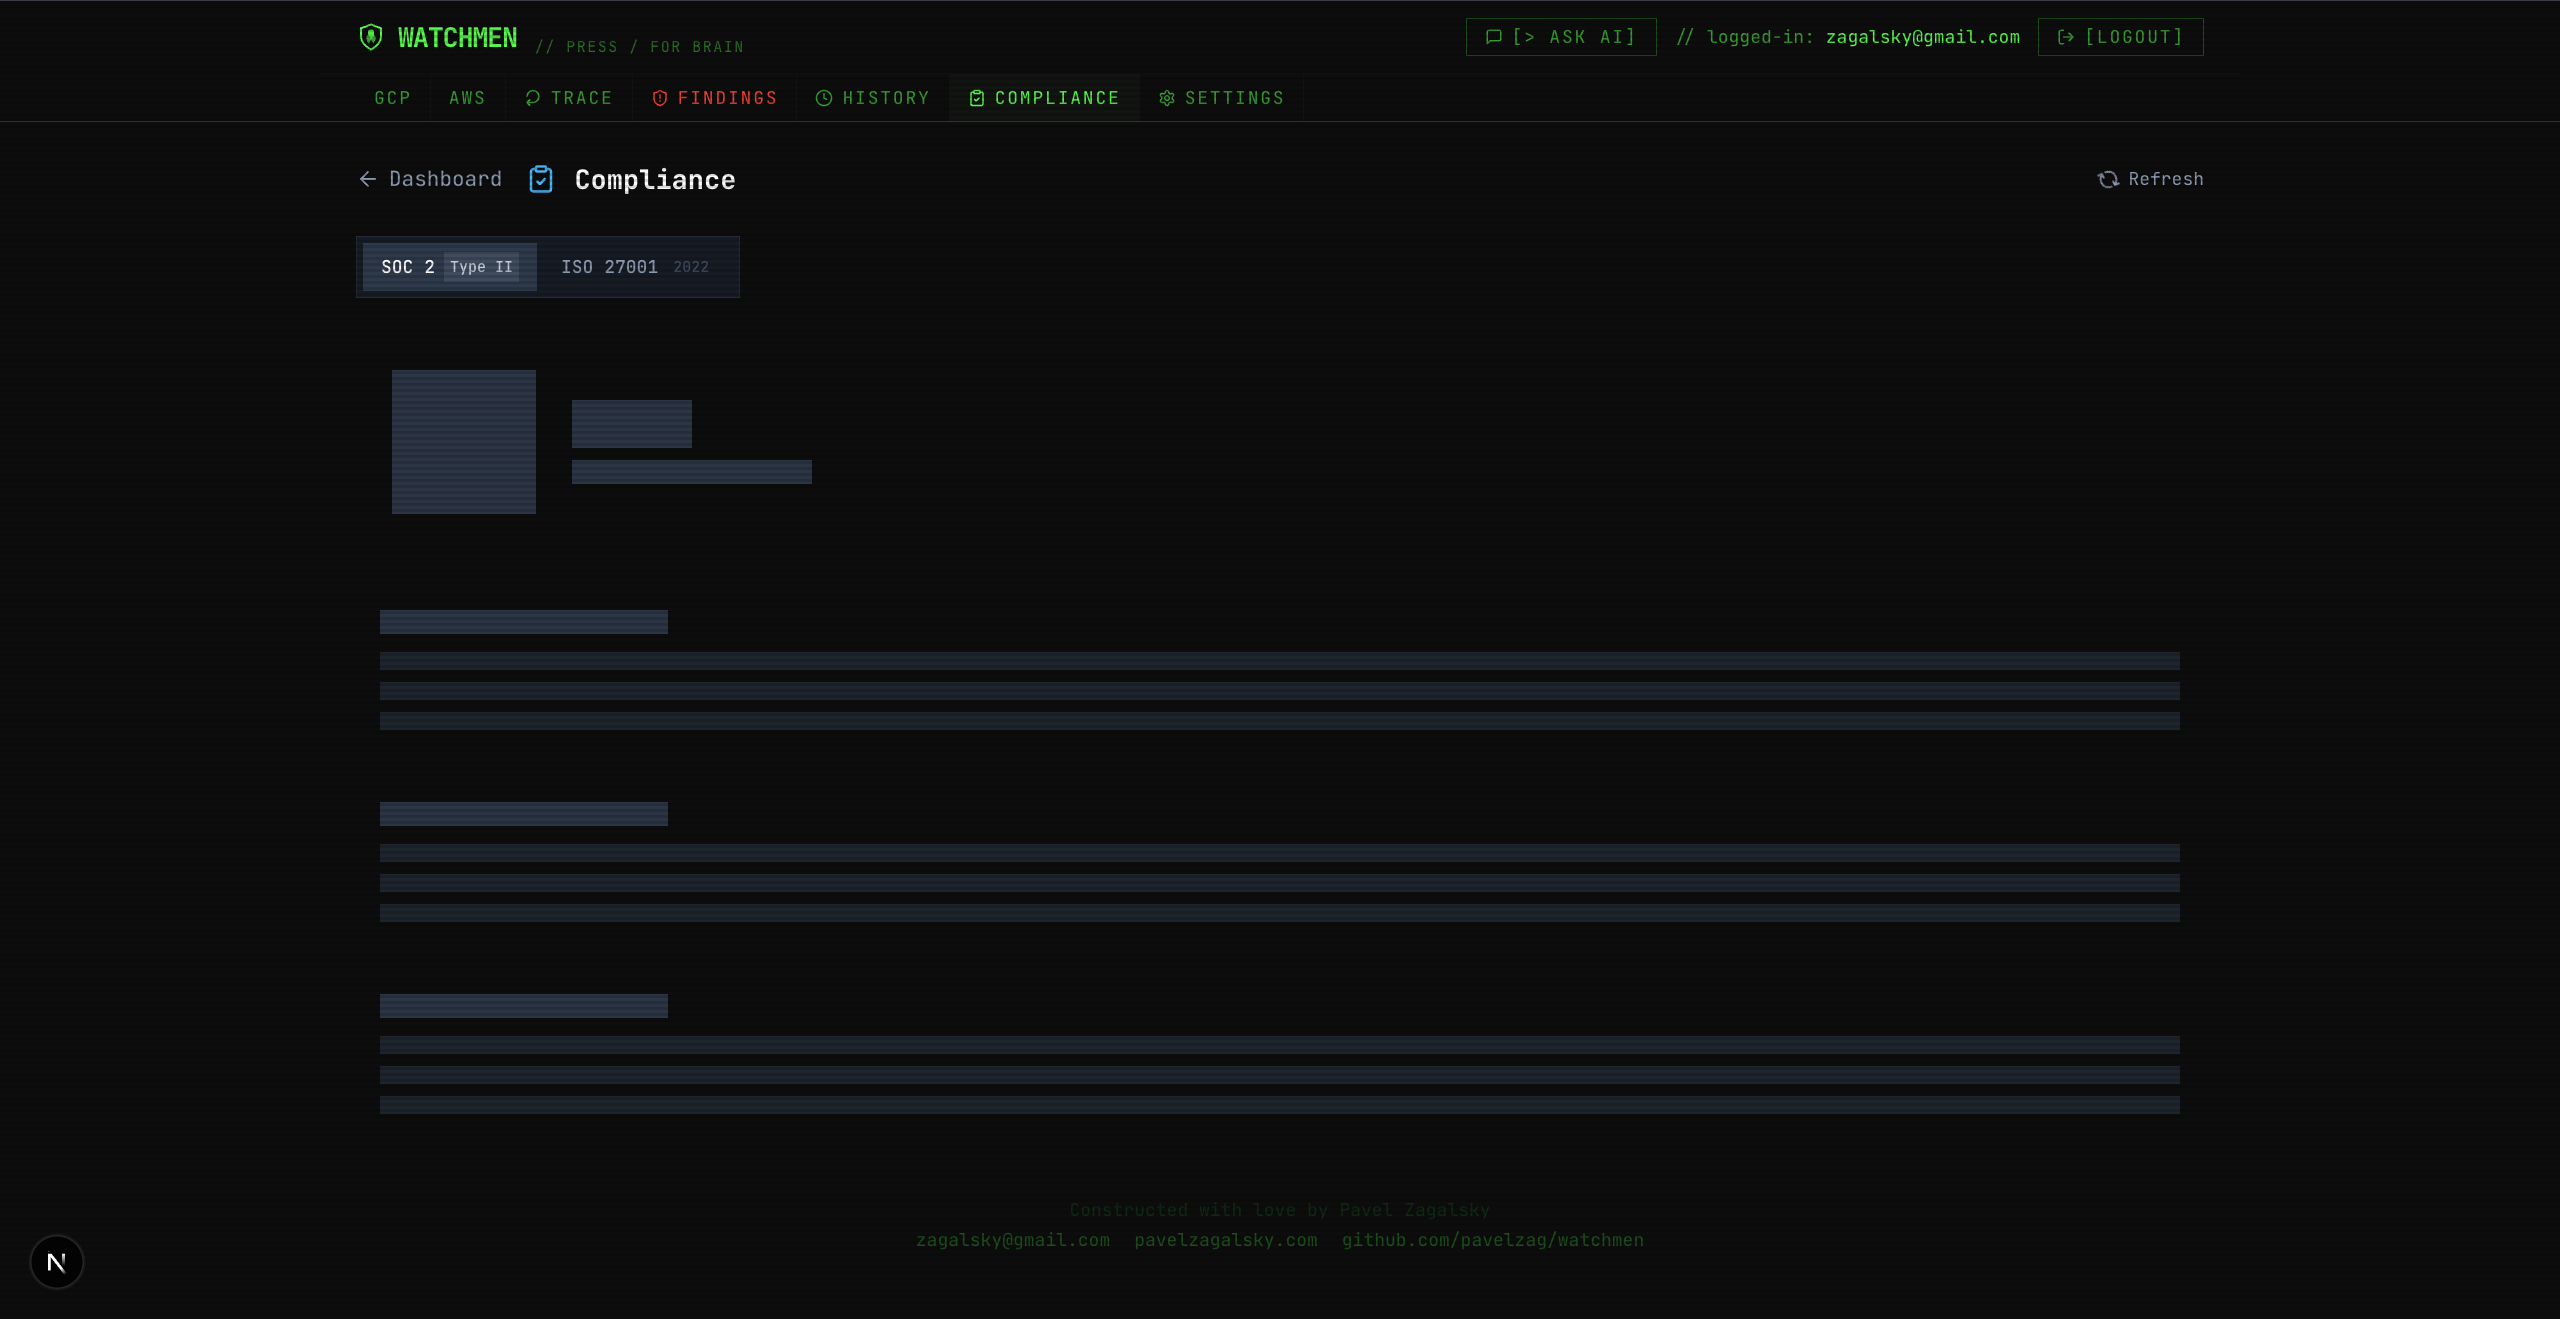
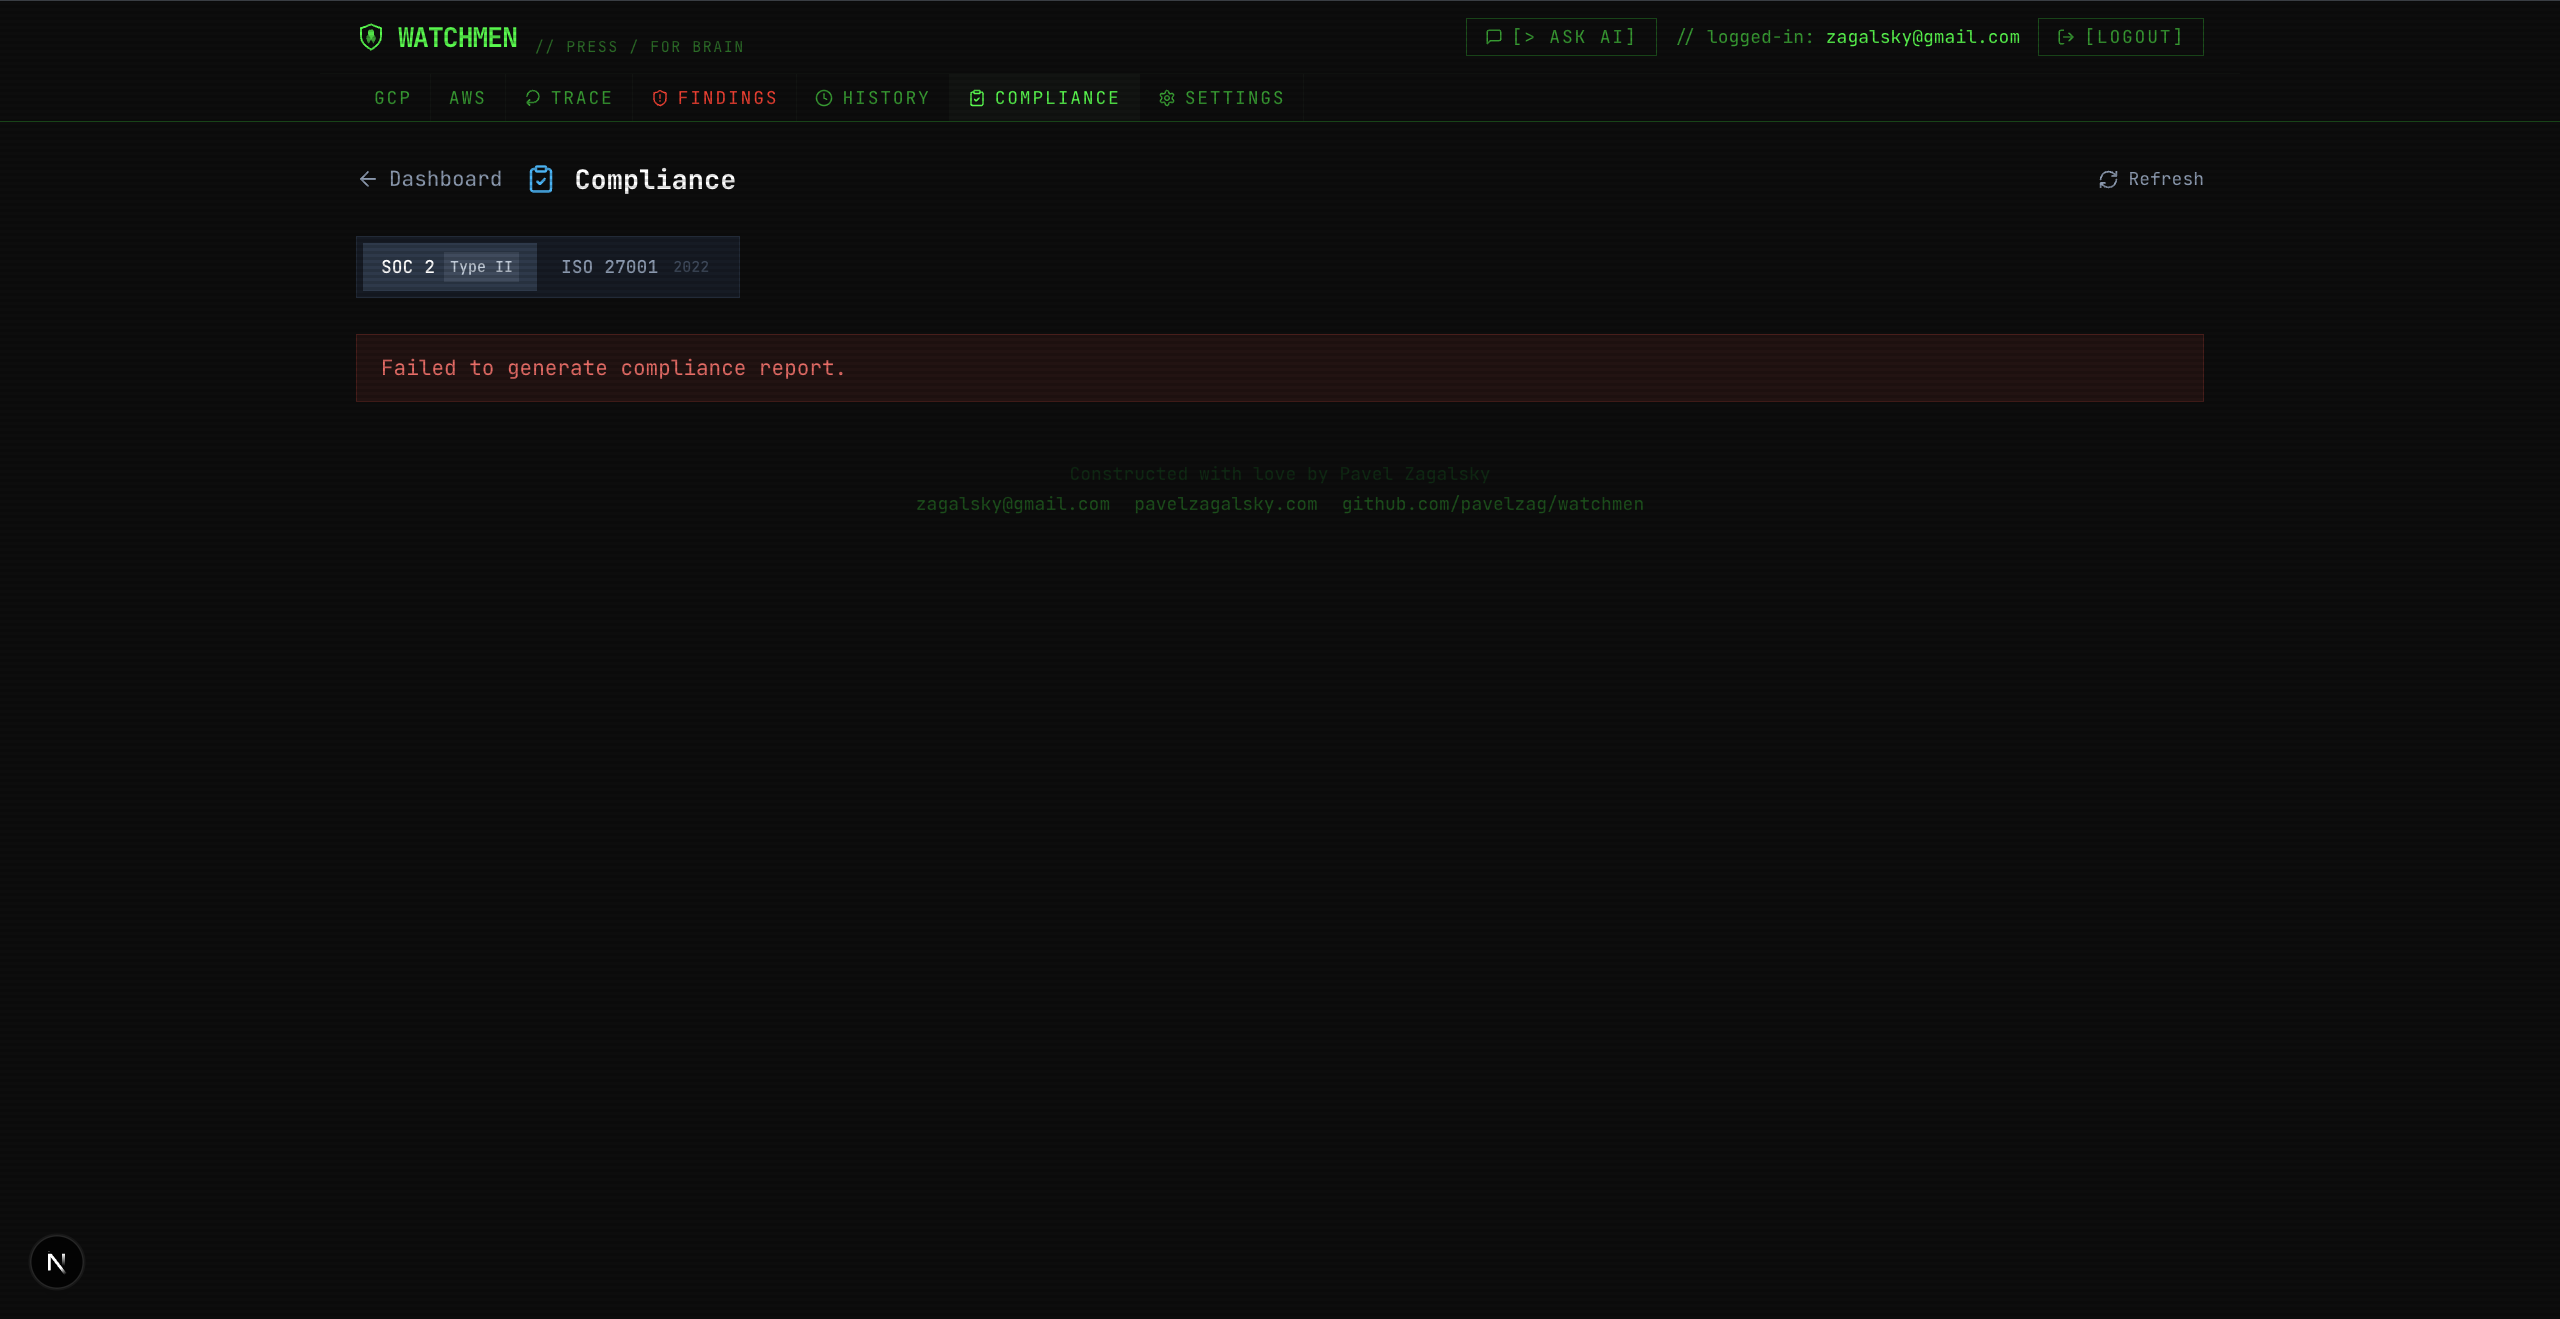
more documentation

diff --git a/app/api/compliance/route.ts b/app/api/compliance/route.ts
@@ -42,25 +42,30 @@ export async function GET(req: NextRequest) {
       if (result.rows.length > 0) awsSnapshot = result.rows[0].snapshot;
     }
 
-    if (!gcpSnapshot && !awsSnapshot) {
+    let report: ComplianceReport;
+    const gcpReport = gcpSnapshot
+      ? (standard === "iso27001" ? runIso27001(gcpSnapshot) : runSoc2(gcpSnapshot))
+      : null;
+    const awsReport = awsSnapshot
+      ? (standard === "iso27001" ? runAwsIso27001(awsSnapshot) : runAwsSoc2(awsSnapshot))
+      : null;
+
+    if (!gcpReport && !awsReport) {
       return NextResponse.json({ error: "No snapshots yet." }, { status: 404 });
     }
 
-    let report: ComplianceReport;
-    const gcpReport = standard === "iso27001" ? runIso27001(gcpSnapshot) : runSoc2(gcpSnapshot);
-    const awsReport = standard === "iso27001" ? runAwsIso27001(awsSnapshot) : runAwsSoc2(awsSnapshot);
-
-    // Merge reports
+    // Merge whichever reports are available
+    const reports = [gcpReport, awsReport].filter(Boolean) as ComplianceReport[];
     report = {
-      standard: gcpReport.standard + " & " + awsReport.standard,
+      standard: reports.map((r) => r.standard).join(" & "),
       generatedAt: new Date().toISOString(),
-      totalControls: gcpReport.totalControls + awsReport.totalControls,
-      passingControls: gcpReport.passingControls + awsReport.passingControls,
-      failingControls: gcpReport.failingControls + awsReport.failingControls,
-      warningControls: gcpReport.warningControls + awsReport.warningControls,
-      suppressedControls: gcpReport.suppressedControls + awsReport.suppressedControls,
+      totalControls: reports.reduce((s, r) => s + r.totalControls, 0),
+      passingControls: reports.reduce((s, r) => s + r.passingControls, 0),
+      failingControls: reports.reduce((s, r) => s + r.failingControls, 0),
+      warningControls: reports.reduce((s, r) => s + r.warningControls, 0),
+      suppressedControls: reports.reduce((s, r) => s + r.suppressedControls, 0),
       score: 0, // Recalculated below
-      categories: [...gcpReport.categories, ...awsReport.categories],
+      categories: reports.flatMap((r) => r.categories),
     };
 
     // Recalculate score

diff --git a/docs/architecture.md b/docs/architecture.md
@@ -232,7 +232,7 @@ flowchart LR
 
 ```mermaid
 flowchart TD
-    Q([User question]) --> A[/api/query]
+    Q([User question]) --> A["/api/query"]
     A --> B{Resolve AI key}
     B -->|User DB key| C[Decrypt AES-256-GCM]
     B -->|Browser key| D[From localStorage]
